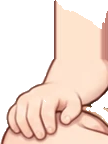
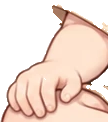
퀴즈나라: 양반다리 정면 팔을 원화 그대로 잇기
- 앉은 몸을 0.55칸 낮춰 소매를 원화 소매 높이에 맞췄다. 아래팔은 원화
  그대로 쓴다(늘리기·지우기 없음, 손과 이어지지 않은 조각만 제거).
- 원화를 쓰는 정면에서는 셔츠를 다리 그림 위에 둔다.

Claude-Session: https://claude.ai/code/session_01TorvBRE4tH5a5MfFk5YraQ

Changed region(s): [[0.0, 0.0, 1.0, 0.9836]]

diff --git a/퀴즈나라/avatar-foundation.js b/퀴즈나라/avatar-foundation.js
@@ -301,7 +301,7 @@
   // below its centre, under the thigh's round end, so the thigh shows above
   // it; `radii`: the shin's at the knee and ankle (the reference's legs are
   // fuller than the standing chibi's). The side view keeps SEATED.floor.side.
-  const FLOOR_FRONT=Object.freeze({seat:3.55,thigh:4.7,out:72.5,rise:4.4,cross:[2.6,2.7],lift:[-.35,.13],z:[2,2.2],cuff:3,shin:.6,radii:[1.2,.86]});
+  const FLOOR_FRONT=Object.freeze({seat:3,thigh:4.7,out:72.5,rise:4.4,cross:[2.6,2.7],lift:[-.35,.13],z:[2,2.2],cuff:3,shin:.6,radii:[1.2,.86]});
   // Drawn front floor-sit layers cut from that reference (tools/seated-cut.py,
   // assets/seated/floor-front-m.json; rects in body units). The stretched
   // standing limbs read as tubes, the standing hand hung off the knee and the
@@ -309,7 +309,7 @@
   // `legs` (skin, tinted: thighs, crossed shins, hands on the knees), `hands`
   // (the same hands over the arms, whose wrists reach `wrist`) and per shoe
   // item the worn shoes (untinted). Back and side views keep the drawn shapes.
-  const SEATED_ART=Object.freeze({m:Object.freeze({legs:Object.freeze({url:'assets/seated/floor-front-m-legs.png',rect:[8.1565, 39.246, 15.6492, 6.615]}),hands:[Object.freeze({url:'assets/seated/floor-front-m-hand-0.png',rect:[8.0809, 36.9402, 4.4226, 4.914]}),Object.freeze({url:'assets/seated/floor-front-m-hand-1.png',rect:[19.5343, 36.9402, 4.4604, 4.914]})],wrist:[[10.9159, 39.4728], [20.8573, 39.4728]],bottoms:Object.freeze({'bottom:shorts':Object.freeze({url:'assets/seated/floor-front-m-bottom-shorts.png',rect:[8.1187, 39.246, 15.7248, 6.7662]})}),shoes:Object.freeze({'shoes:sneaker':[Object.freeze({url:'assets/seated/floor-front-m-shoes-sneaker-0.png',rect:[17.1529, 42.8748, 4.9896, 3.1752]}),Object.freeze({url:'assets/seated/floor-front-m-shoes-sneaker-1.png',rect:[9.7063, 42.6102, 4.9518, 3.4398]})]})}),f:Object.freeze({legs:Object.freeze({url:'assets/seated/floor-front-f-legs.png',rect:[8.8504, 39.9927, 14.2992, 5.8587]}),hands:[Object.freeze({url:'assets/seated/floor-front-f-hand-0.png',rect:[8.8504, 37.3778, 3.5748, 4.7664]}),Object.freeze({url:'assets/seated/floor-front-f-hand-1.png',rect:[19.1776, 37.3778, 4.0382, 4.7664]})],wrist:[[11.1343, 40.1913], [20.3361, 40.1913]],bottoms:Object.freeze({'bottom:shorts':Object.freeze({url:'assets/seated/floor-front-f-bottom-shorts.png',rect:[8.8173, 39.9927, 14.3323, 6.0573]})}),shoes:Object.freeze({'shoes:sneaker':[Object.freeze({url:'assets/seated/floor-front-f-shoes-sneaker-0.png',rect:[17.0592, 43.2365, 4.4023, 2.8135]}),Object.freeze({url:'assets/seated/floor-front-f-shoes-sneaker-1.png',rect:[10.4723, 43.0379, 4.3692, 2.979]})]})})});
+  const SEATED_ART=Object.freeze({m:Object.freeze({legs:Object.freeze({url:'assets/seated/floor-front-m-legs.png',rect:[8.1565, 39.246, 15.6492, 6.615]}),hands:[Object.freeze({url:'assets/seated/floor-front-m-hand-0.png',rect:[8.0809, 37.4694, 4.4226, 4.3848]}),Object.freeze({url:'assets/seated/floor-front-m-hand-1.png',rect:[19.5343, 37.4694, 4.4604, 4.3848]})],wrist:[[10.9159, 39.4728], [20.8573, 39.4728]],bottoms:Object.freeze({'bottom:shorts':Object.freeze({url:'assets/seated/floor-front-m-bottom-shorts.png',rect:[8.1187, 39.246, 15.7248, 6.7662]})}),shoes:Object.freeze({'shoes:sneaker':[Object.freeze({url:'assets/seated/floor-front-m-shoes-sneaker-0.png',rect:[17.1529, 42.8748, 4.9896, 3.1752]}),Object.freeze({url:'assets/seated/floor-front-m-shoes-sneaker-1.png',rect:[9.7063, 42.6102, 4.9518, 3.4398]})]})}),f:Object.freeze({legs:Object.freeze({url:'assets/seated/floor-front-f-legs.png',rect:[8.8504, 39.9927, 14.2992, 5.8587]}),hands:[Object.freeze({url:'assets/seated/floor-front-f-hand-0.png',rect:[8.8504, 38.106, 3.5748, 4.0382]}),Object.freeze({url:'assets/seated/floor-front-f-hand-1.png',rect:[19.1776, 38.106, 4.0382, 4.0382]})],wrist:[[11.1343, 40.1913], [20.3361, 40.1913]],bottoms:Object.freeze({'bottom:shorts':Object.freeze({url:'assets/seated/floor-front-f-bottom-shorts.png',rect:[8.8173, 39.9927, 14.3323, 6.0573]})}),shoes:Object.freeze({'shoes:sneaker':[Object.freeze({url:'assets/seated/floor-front-f-shoes-sneaker-0.png',rect:[17.0592, 43.2365, 4.4023, 2.8135]}),Object.freeze({url:'assets/seated/floor-front-f-shoes-sneaker-1.png',rect:[10.4723, 43.0379, 4.3692, 2.979]})]})})});
   const SEATED=Object.freeze({
     // The side view is drawn for reading, as in the user's side reference
     // (round 2: before, the shirt reached the floor, no knee showed and the
@@ -1122,7 +1122,7 @@
     // the shirt; from the side the thigh is under the shorts; from behind the
     // forearms are beyond the back panel. Climbing arms rise from the shoulders
     // over the back (their hands go behind the head, drawn above the body).
-    if(pose.floor)order=pose.back?['far-leg','near-leg','pelvis',...armKeys,'torso']:pose.profile?['far-arm','far-leg','near-leg','pelvis','torso','near-arm']:['pelvis','torso','far-leg','near-leg',...armKeys];
+    if(pose.floor)order=pose.back?['far-leg','near-leg','pelvis',...armKeys,'torso']:pose.profile?['far-arm','far-leg','near-leg','pelvis','torso','near-arm']:pose.seatArt?['pelvis','far-leg','near-leg','torso',...armKeys]:['pelvis','torso','far-leg','near-leg',...armKeys];
     else if(pose.back&&seated)order=['far-arm','near-arm','far-leg','near-leg','pelvis','torso'];
     else if(pose.action==='climb')order=['far-leg','near-leg','pelvis','torso',...armKeys];
     else if(seated&&pose.profile)order=['far-arm','far-leg','near-leg','pelvis','torso','near-arm'];

diff --git a/퀴즈나라/배포용/avatar-foundation.js b/퀴즈나라/배포용/avatar-foundation.js
@@ -301,7 +301,7 @@
   // below its centre, under the thigh's round end, so the thigh shows above
   // it; `radii`: the shin's at the knee and ankle (the reference's legs are
   // fuller than the standing chibi's). The side view keeps SEATED.floor.side.
-  const FLOOR_FRONT=Object.freeze({seat:3.55,thigh:4.7,out:72.5,rise:4.4,cross:[2.6,2.7],lift:[-.35,.13],z:[2,2.2],cuff:3,shin:.6,radii:[1.2,.86]});
+  const FLOOR_FRONT=Object.freeze({seat:3,thigh:4.7,out:72.5,rise:4.4,cross:[2.6,2.7],lift:[-.35,.13],z:[2,2.2],cuff:3,shin:.6,radii:[1.2,.86]});
   // Drawn front floor-sit layers cut from that reference (tools/seated-cut.py,
   // assets/seated/floor-front-m.json; rects in body units). The stretched
   // standing limbs read as tubes, the standing hand hung off the knee and the
@@ -309,7 +309,7 @@
   // `legs` (skin, tinted: thighs, crossed shins, hands on the knees), `hands`
   // (the same hands over the arms, whose wrists reach `wrist`) and per shoe
   // item the worn shoes (untinted). Back and side views keep the drawn shapes.
-  const SEATED_ART=Object.freeze({m:Object.freeze({legs:Object.freeze({url:'assets/seated/floor-front-m-legs.png',rect:[8.1565, 39.246, 15.6492, 6.615]}),hands:[Object.freeze({url:'assets/seated/floor-front-m-hand-0.png',rect:[8.0809, 36.9402, 4.4226, 4.914]}),Object.freeze({url:'assets/seated/floor-front-m-hand-1.png',rect:[19.5343, 36.9402, 4.4604, 4.914]})],wrist:[[10.9159, 39.4728], [20.8573, 39.4728]],bottoms:Object.freeze({'bottom:shorts':Object.freeze({url:'assets/seated/floor-front-m-bottom-shorts.png',rect:[8.1187, 39.246, 15.7248, 6.7662]})}),shoes:Object.freeze({'shoes:sneaker':[Object.freeze({url:'assets/seated/floor-front-m-shoes-sneaker-0.png',rect:[17.1529, 42.8748, 4.9896, 3.1752]}),Object.freeze({url:'assets/seated/floor-front-m-shoes-sneaker-1.png',rect:[9.7063, 42.6102, 4.9518, 3.4398]})]})}),f:Object.freeze({legs:Object.freeze({url:'assets/seated/floor-front-f-legs.png',rect:[8.8504, 39.9927, 14.2992, 5.8587]}),hands:[Object.freeze({url:'assets/seated/floor-front-f-hand-0.png',rect:[8.8504, 37.3778, 3.5748, 4.7664]}),Object.freeze({url:'assets/seated/floor-front-f-hand-1.png',rect:[19.1776, 37.3778, 4.0382, 4.7664]})],wrist:[[11.1343, 40.1913], [20.3361, 40.1913]],bottoms:Object.freeze({'bottom:shorts':Object.freeze({url:'assets/seated/floor-front-f-bottom-shorts.png',rect:[8.8173, 39.9927, 14.3323, 6.0573]})}),shoes:Object.freeze({'shoes:sneaker':[Object.freeze({url:'assets/seated/floor-front-f-shoes-sneaker-0.png',rect:[17.0592, 43.2365, 4.4023, 2.8135]}),Object.freeze({url:'assets/seated/floor-front-f-shoes-sneaker-1.png',rect:[10.4723, 43.0379, 4.3692, 2.979]})]})})});
+  const SEATED_ART=Object.freeze({m:Object.freeze({legs:Object.freeze({url:'assets/seated/floor-front-m-legs.png',rect:[8.1565, 39.246, 15.6492, 6.615]}),hands:[Object.freeze({url:'assets/seated/floor-front-m-hand-0.png',rect:[8.0809, 37.4694, 4.4226, 4.3848]}),Object.freeze({url:'assets/seated/floor-front-m-hand-1.png',rect:[19.5343, 37.4694, 4.4604, 4.3848]})],wrist:[[10.9159, 39.4728], [20.8573, 39.4728]],bottoms:Object.freeze({'bottom:shorts':Object.freeze({url:'assets/seated/floor-front-m-bottom-shorts.png',rect:[8.1187, 39.246, 15.7248, 6.7662]})}),shoes:Object.freeze({'shoes:sneaker':[Object.freeze({url:'assets/seated/floor-front-m-shoes-sneaker-0.png',rect:[17.1529, 42.8748, 4.9896, 3.1752]}),Object.freeze({url:'assets/seated/floor-front-m-shoes-sneaker-1.png',rect:[9.7063, 42.6102, 4.9518, 3.4398]})]})}),f:Object.freeze({legs:Object.freeze({url:'assets/seated/floor-front-f-legs.png',rect:[8.8504, 39.9927, 14.2992, 5.8587]}),hands:[Object.freeze({url:'assets/seated/floor-front-f-hand-0.png',rect:[8.8504, 38.106, 3.5748, 4.0382]}),Object.freeze({url:'assets/seated/floor-front-f-hand-1.png',rect:[19.1776, 38.106, 4.0382, 4.0382]})],wrist:[[11.1343, 40.1913], [20.3361, 40.1913]],bottoms:Object.freeze({'bottom:shorts':Object.freeze({url:'assets/seated/floor-front-f-bottom-shorts.png',rect:[8.8173, 39.9927, 14.3323, 6.0573]})}),shoes:Object.freeze({'shoes:sneaker':[Object.freeze({url:'assets/seated/floor-front-f-shoes-sneaker-0.png',rect:[17.0592, 43.2365, 4.4023, 2.8135]}),Object.freeze({url:'assets/seated/floor-front-f-shoes-sneaker-1.png',rect:[10.4723, 43.0379, 4.3692, 2.979]})]})})});
   const SEATED=Object.freeze({
     // The side view is drawn for reading, as in the user's side reference
     // (round 2: before, the shirt reached the floor, no knee showed and the
@@ -1122,7 +1122,7 @@
     // the shirt; from the side the thigh is under the shorts; from behind the
     // forearms are beyond the back panel. Climbing arms rise from the shoulders
     // over the back (their hands go behind the head, drawn above the body).
-    if(pose.floor)order=pose.back?['far-leg','near-leg','pelvis',...armKeys,'torso']:pose.profile?['far-arm','far-leg','near-leg','pelvis','torso','near-arm']:['pelvis','torso','far-leg','near-leg',...armKeys];
+    if(pose.floor)order=pose.back?['far-leg','near-leg','pelvis',...armKeys,'torso']:pose.profile?['far-arm','far-leg','near-leg','pelvis','torso','near-arm']:pose.seatArt?['pelvis','far-leg','near-leg','torso',...armKeys]:['pelvis','torso','far-leg','near-leg',...armKeys];
     else if(pose.back&&seated)order=['far-arm','near-arm','far-leg','near-leg','pelvis','torso'];
     else if(pose.action==='climb')order=['far-leg','near-leg','pelvis','torso',...armKeys];
     else if(seated&&pose.profile)order=['far-arm','far-leg','near-leg','pelvis','torso','near-arm'];

diff --git a/퀴즈나라/tools/seated-cut.py b/퀴즈나라/tools/seated-cut.py
@@ -25,14 +25,14 @@ FIGURES={
   shoes=[[(528,805),(532,782),(548,771),(580,764),(615,763),(640,770),(652,790),(655,815),(647,835),(618,846),(578,846),(548,838),(532,824)],
          [(331,792),(340,768),(360,757),(392,757),(425,764),(447,772),(458,790),(458,812),(452,830),(425,842),(385,846),(350,840),(334,822)]],
   openings=[[(520,740),(560,740),(560,800),(520,840)],[(430,740),(470,740),(470,830),(430,790)]],
-  wrist=665,forearms=[360,623],hands=[(285,402),(588,706)],handBottom=734,armTop=618,cuffLine=652,lift=14,
+  wrist=665,forearms=[360,623],hands=[(285,402),(588,706)],handBottom=734,armTop=618,cuffLine=652,lift=0,
   sleeves=[[(352,612),(362,616),(376,628),(389,632),(398,620)],[(588,617),(600,635),(614,628),(627,617),(632,612)]]),
  # Girl: 327 px runtime head over the bob's 510 px.
  'f':dict(src='assets/pose-references/floor-sit-f-chatgpt-2026-10-14.webp',cx=474,k=.0331,crop=(205,550,745,835),
   shoes=[[(507,790),(512,770),(530,758),(570,748),(605,742),(625,750),(635,775),(632,800),(615,820),(580,826),(540,822),(515,810)],
          [(310,780),(318,750),(345,737),(380,738),(420,752),(437,762),(440,790),(432,808),(400,820),(355,823),(322,815)]],
   openings=[[(490,735),(532,735),(532,800),(490,820)],[(425,740),(462,740),(462,815),(425,800)]],
-  wrist=643,forearms=[327,605],armTop=586,cuffLine=622,lift=22,
+  wrist=643,forearms=[327,605],armTop=586,cuffLine=622,lift=0,
   sleeves=[[(290,0),(370,0)],[(570,0),(650,0)]],hem=[(205,640),(358,640),(366,676),(420,693),(470,699),(520,693),(578,676),(588,640),(745,640)],hands=[(258,366),(570,692)],handBottom=708),
 }
 sex,out=sys.argv[1],sys.argv[2];C=FIGURES[sex];src=C['src']
@@ -110,6 +110,13 @@ def save(name,mask,box=None,src=None,alpha=None):
 # boy's sleeve).
 ARM=fg&~(mn>232)&skintone&~shirt&~denim&(rows>=C['armTop']-y0)
 ARM&=grow(shrink(ARM),1)
+# Keep only what connects to the hands (stray bits of the cuff's edge outline).
+keep=ARM&(rows>=C['wrist']-y0)
+while True:
+    d=grow(keep,1)&ARM
+    if (d==keep).all():break
+    keep=d
+ARM=keep
 armRGB=a.copy();armM=ARM.copy();L=C['lift']
 for (h0,h1),fx,sl in zip(C['hands'],C['forearms'],C['sleeves']):
     sx,sy=zip(*sl)
@@ -122,6 +129,7 @@ for (h0,h1),fx,sl in zip(C['hands'],C['forearms'],C['sleeves']):
     s=max(np.argmax(ARM[:,j]) for j in js)+7;c=fx-x0;lo=hi=c
     while lo>0 and ARM[s,lo-1]:lo-=1
     while hi<x1-x0-1 and ARM[s,hi+1]:hi+=1
+    if not L:continue
     for j in js:
         top=np.argmax(ARM[:,j])
         if not lo<=j<=hi:armM[:s,j]=False
